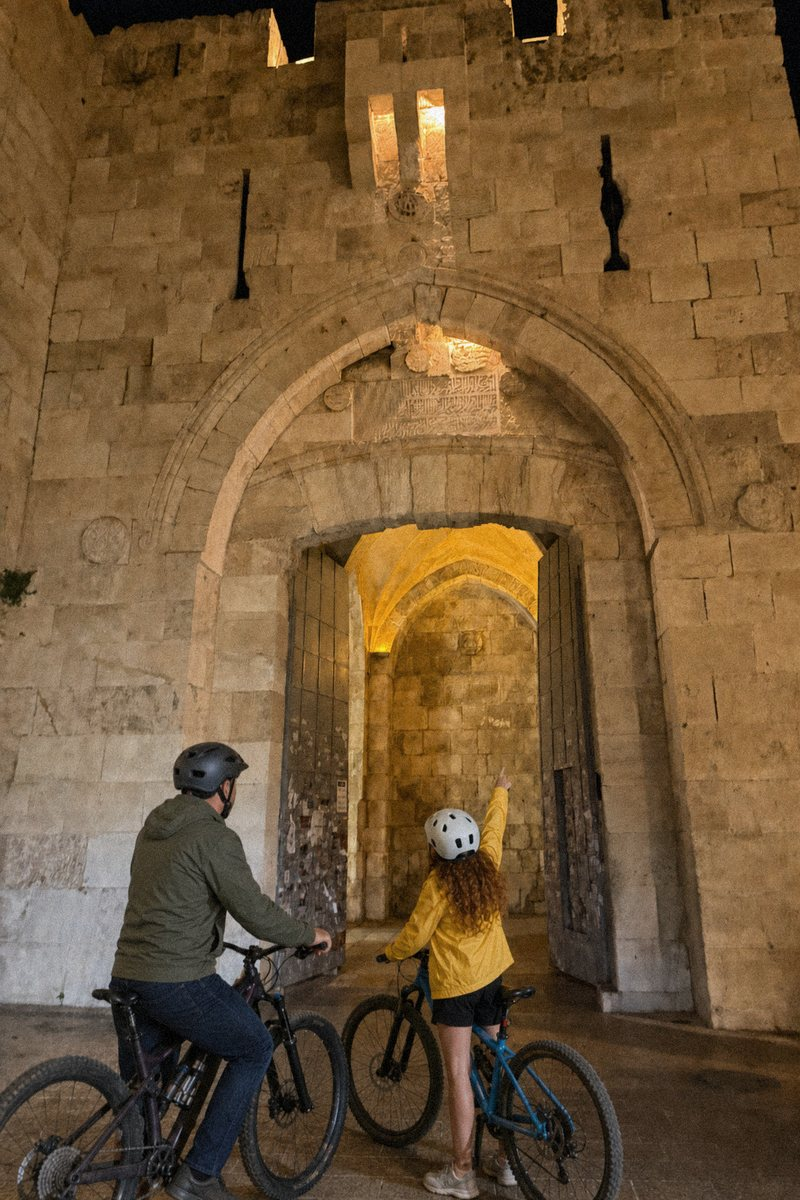
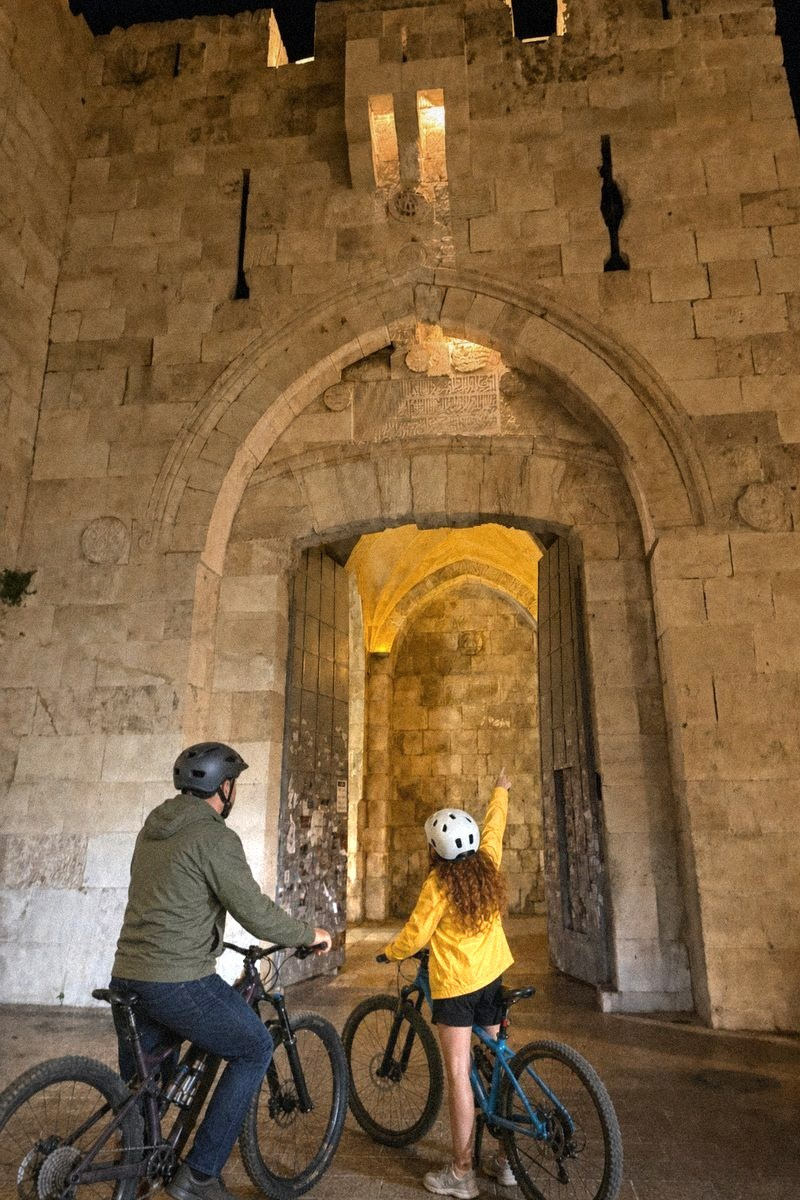
Hero: headline up top, riders at Jaffa Gate brought forward

Changed region(s): [[0.0, 0.5858, 0.8438, 0.9867], [0.1875, 0.925, 0.2188, 0.9558]]

diff --git a/index.html b/index.html
@@ -44,15 +44,16 @@
   .slides img{object-fit:cover;opacity:0;transform:scale(1.12);transition:opacity 2s ease}
   .slides img.on{opacity:1;animation:kb 9s ease-out forwards}
   @keyframes kb{from{transform:scale(1.14)}to{transform:scale(1.0)}}
-  .hero::after{content:"";position:absolute;inset:0;z-index:1;background:linear-gradient(180deg,rgba(11,20,40,.55) 0%,rgba(11,20,40,.05) 32%,rgba(11,20,40,.35) 58%,rgba(11,20,40,.96) 100%)}
-  .hebrew{position:absolute;z-index:1;left:50%;top:44%;transform:translate(-50%,-50%);font-family:"Frank Ruhl Libre",serif;font-weight:700;font-size:clamp(110px,34vw,300px);line-height:1;color:transparent;-webkit-text-stroke:1px rgba(255,255,255,.16);white-space:nowrap;pointer-events:none}
+  .hero::after{content:"";position:absolute;inset:0;z-index:1;background:linear-gradient(180deg,rgba(11,20,40,.88) 0%,rgba(11,20,40,.62) 30%,rgba(11,20,40,.12) 52%,rgba(11,20,40,0) 80%,rgba(11,20,40,.55) 100%)}
+  .hebrew{position:absolute;z-index:1;left:50%;top:30%;transform:translate(-50%,-50%);font-family:"Frank Ruhl Libre",serif;font-weight:700;font-size:clamp(110px,34vw,300px);line-height:1;color:transparent;-webkit-text-stroke:1px rgba(255,255,255,.16);white-space:nowrap;pointer-events:none}
   .hero .wrap{flex:1;display:flex;flex-direction:column;width:100%;padding-top:22px;padding-bottom:56px}
   .logo{width:132px}
-  .hero-body{margin-top:auto;text-align:center}
+  .hero-body{margin-top:clamp(28px,6vh,64px);text-align:center}
+  .slides img{object-position:50% 78%}
   h1{font-family:"Cinzel",serif;font-weight:900;font-size:clamp(50px,15vw,104px);line-height:.98;letter-spacing:.01em;margin-top:14px;text-shadow:0 4px 40px rgba(11,20,40,.6)}
   .tag{font-family:"Cormorant Garamond",serif;font-style:italic;font-weight:600;font-size:clamp(23px,6.4vw,32px);line-height:1.3;margin-top:16px;color:var(--cream)}
   .hero .btn{margin-top:30px}
-  .scroll{margin-top:22px;font-size:13px;letter-spacing:.2em;text-transform:uppercase;color:rgba(255,255,255,.65)}
+  .scroll{position:absolute;left:0;right:0;bottom:22px;margin:0;font-size:13px;letter-spacing:.2em;text-transform:uppercase;color:rgba(255,255,255,.65)}
 
   /* statement */
   .statement{padding:96px 0 80px;text-align:center;position:relative;background:radial-gradient(120% 80% at 50% 0%,#1a2b52 0%,var(--night) 70%)}
